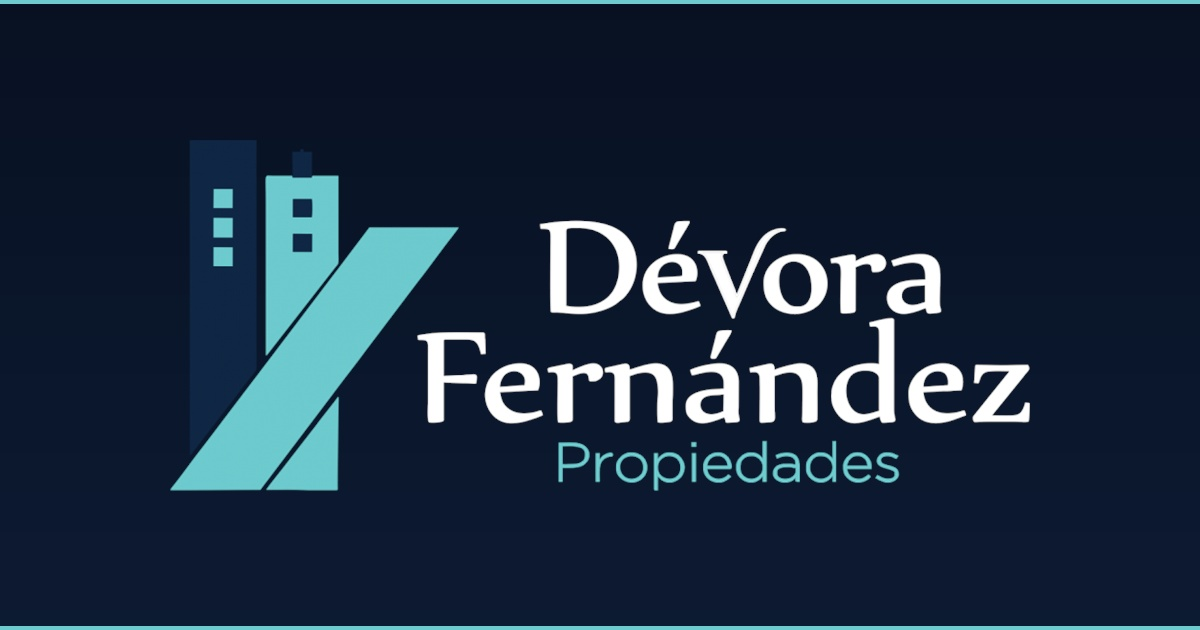
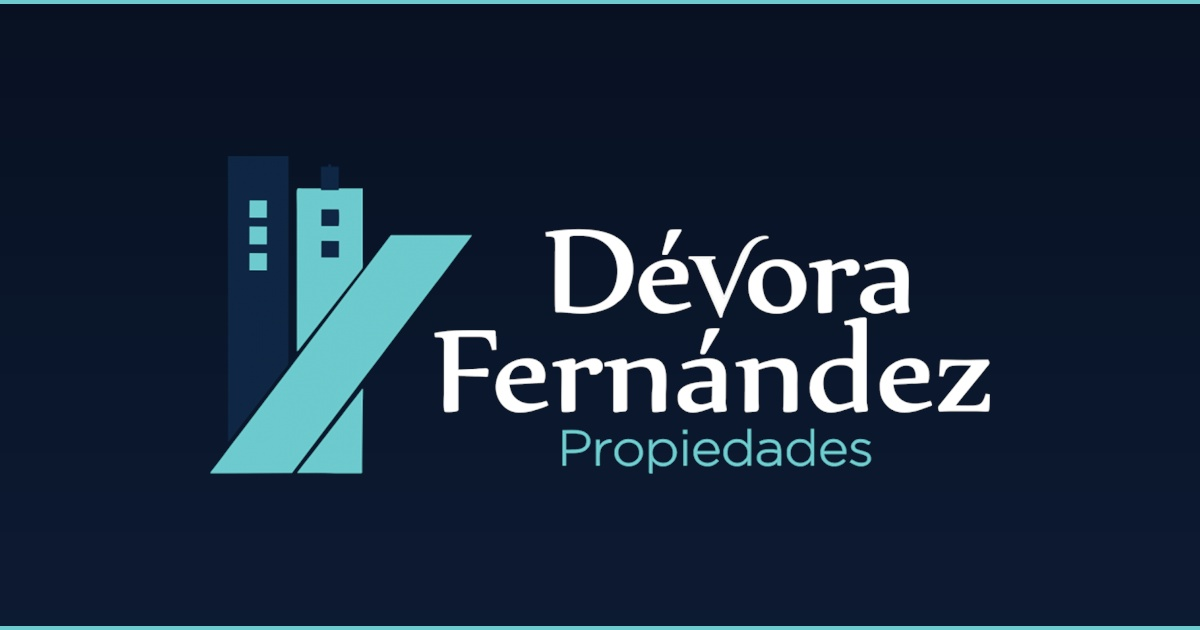
Add generous safe margins to preview image so the letter z is never cropped

Changed region(s): [[0.1233, 0.2111, 0.8633, 0.7841]]

diff --git a/index.html b/index.html
@@ -11,8 +11,8 @@
   <meta property="og:url" content="https://inmobiliaria-devora-fernandez.vercel.app/">
   <meta property="og:title" content="Dévora Fernández Propiedades | Inmobiliaria en Morón">
   <meta property="og:description" content="Empresa Inmobiliaria familiar. Venta, alquileres, tasaciones a valor real y administración de propiedades en Morón y Castelar.">
-  <meta property="og:image" content="https://inmobiliaria-devora-fernandez.vercel.app/assets/img/whatsapp-preview-clean.jpg?v=8">
-  <meta property="og:image:secure_url" content="https://inmobiliaria-devora-fernandez.vercel.app/assets/img/whatsapp-preview-clean.jpg?v=8">
+  <meta property="og:image" content="https://inmobiliaria-devora-fernandez.vercel.app/assets/img/whatsapp-preview-v3.jpg?v=9">
+  <meta property="og:image:secure_url" content="https://inmobiliaria-devora-fernandez.vercel.app/assets/img/whatsapp-preview-v3.jpg?v=9">
   <meta property="og:image:type" content="image/jpeg">
   <meta property="og:image:width" content="800">
   <meta property="og:image:height" content="800">
@@ -21,13 +21,13 @@
   <meta property="og:locale" content="es_AR">
 
   <!-- WhatsApp Link Thumbnail Fallback -->
-  <link rel="image_src" href="https://inmobiliaria-devora-fernandez.vercel.app/assets/img/whatsapp-preview-clean.jpg?v=8">
+  <link rel="image_src" href="https://inmobiliaria-devora-fernandez.vercel.app/assets/img/whatsapp-preview-v3.jpg?v=9">
 
   <!-- Twitter Meta Tags -->
   <meta name="twitter:card" content="summary_large_image">
   <meta name="twitter:title" content="Dévora Fernández Propiedades | Inmobiliaria en Morón">
   <meta name="twitter:description" content="Inmobiliaria familiar en Morón. Venta, alquileres y tasaciones.">
-  <meta name="twitter:image" content="https://inmobiliaria-devora-fernandez.vercel.app/assets/img/whatsapp-preview-clean.jpg?v=8">
+  <meta name="twitter:image" content="https://inmobiliaria-devora-fernandez.vercel.app/assets/img/whatsapp-preview-v3.jpg?v=9">
 
   <!-- Favicon -->
   <link rel="icon" type="image/png" href="assets/img/logo.png">
